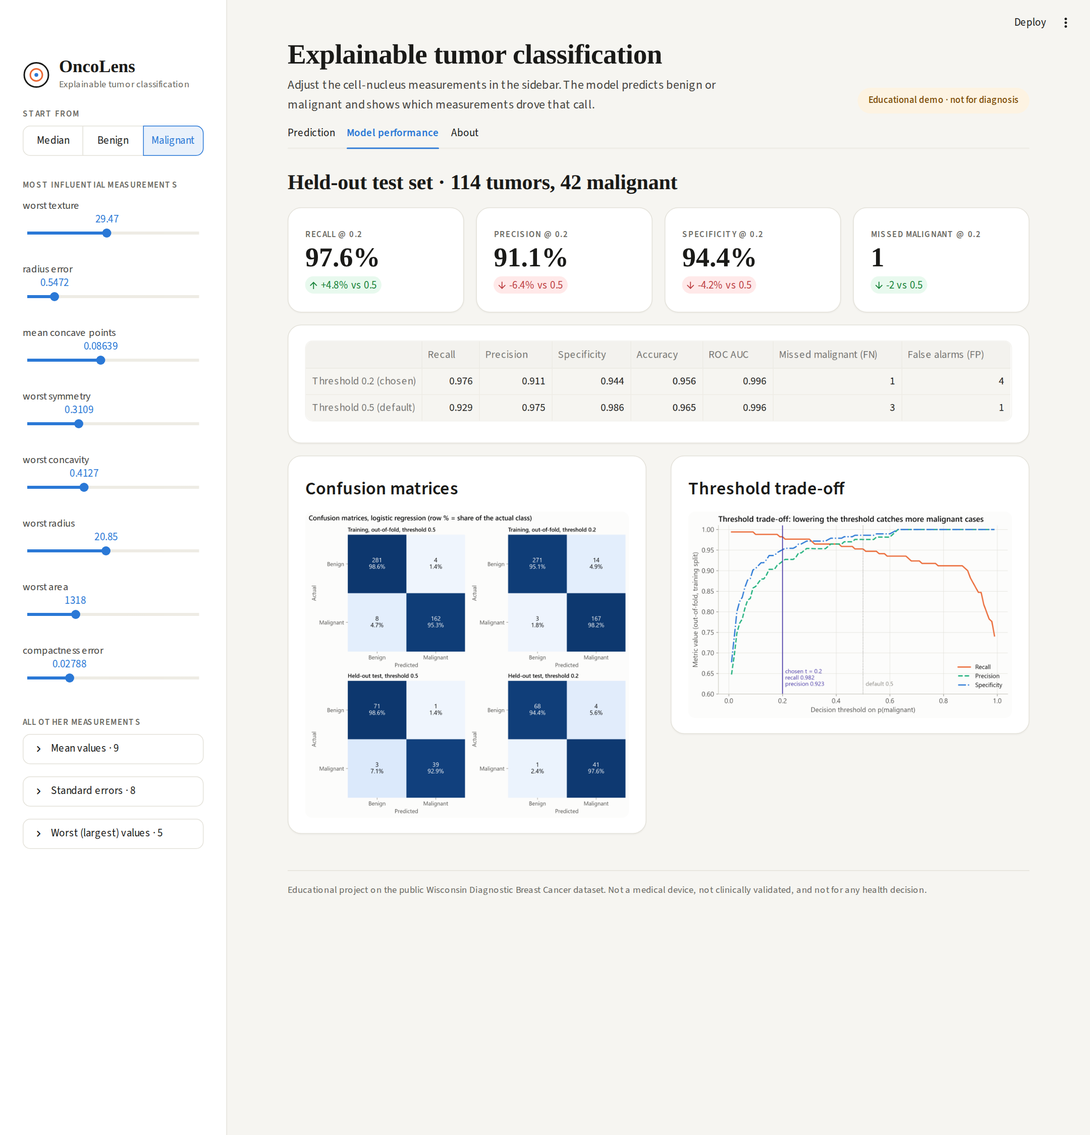
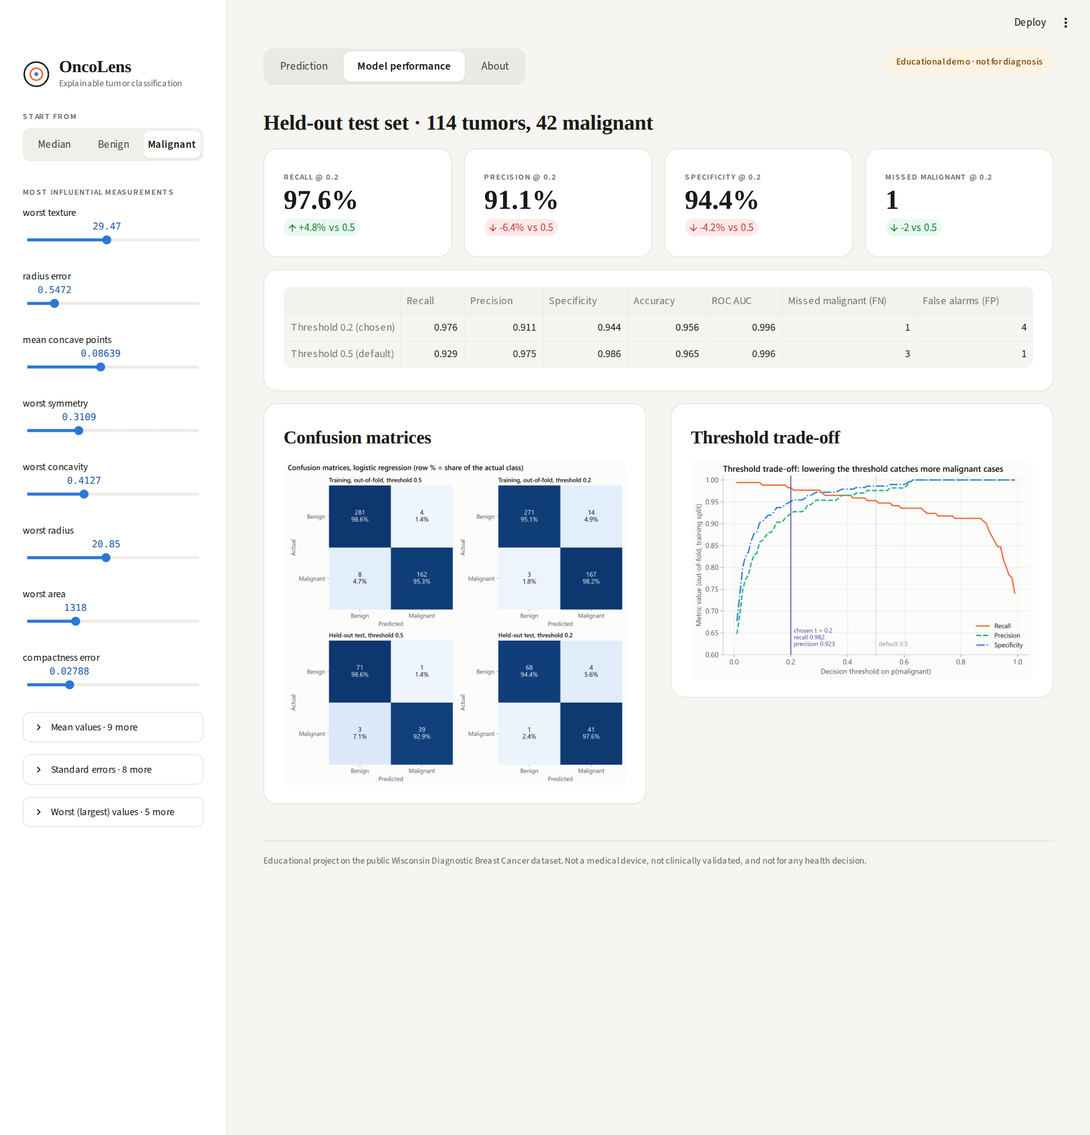
Match the app's Prediction tab to the design mockup
- Pill-style tabs with the educational-demo badge on the right; the page
  title moves to the sidebar brand, as in the mockup
- Verdict card spanning two columns (serif verdict, monospace probability,
  threshold bar) with the two held-out metric cards stacked beside it
- Full-width 'Why this prediction?' card: right-aligned labels, colored
  magnitude bars, monospace values, hover tooltips; replaces the Altair
  waterfall and the separate top-drivers card
- Segmented preset control and slider values styled like the mockup;
  layout collapses to one column on narrow screens

diff --git a/app.py b/app.py
@@ -6,7 +6,6 @@ Educational demo on a public dataset. Not a medical device.
 
 from __future__ import annotations
 
-import altair as alt
 import numpy as np
 import pandas as pd
 import streamlit as st
@@ -30,7 +29,7 @@ from oncolens.data import load_splits, split_features_target
 from oncolens.io_utils import read_json
 
 N_TOP_SLIDERS = 8
-N_SHAP_ROWS = 10
+N_SHAP_ROWS = 7
 GROUP_TITLES = {"mean": "Mean values", "error": "Standard errors", "worst": "Worst (largest) values"}
 PRESET_LABELS = {
     "Median": "Training median (all tumors)",
@@ -48,71 +47,93 @@ st.set_page_config(page_title="OncoLens", page_icon="🔬", layout="wide", initi
 
 CSS = """
 <style>
+@import url('https://fonts.googleapis.com/css2?family=Fraunces:opsz,wght@9..144,500;9..144,600&family=IBM+Plex+Sans:wght@400;500;600&family=IBM+Plex+Mono:wght@400;500&display=swap');
 :root {
   --ol-ink: #1a1a18; --ol-ink-2: #45443f; --ol-muted: #6b6a64;
-  --ol-line: #e4e2da; --ol-ground: #f6f5f1; --ol-card: #ffffff;
-  --ol-benign: #1c5cab; --ol-malignant: #b8481c;
+  --ol-line: #e4e2da; --ol-ground: #f6f5f1; --ol-card: #ffffff; --ol-track: #eceae4;
+  --ol-serif: 'Fraunces', Georgia, serif; --ol-mono: 'IBM Plex Mono', ui-monospace, monospace;
 }
 .stApp { background: var(--ol-ground); }
-.block-container { padding-top: 2.2rem; max-width: 1280px; }
+.block-container { padding-top: 2rem; padding-left: 3rem; padding-right: 3rem; max-width: 1180px; }
 header[data-testid="stHeader"] { background: transparent; }
-h1, h2, h3 { font-family: 'Fraunces', Georgia, serif !important; font-weight: 600 !important; letter-spacing: -0.01em; color: var(--ol-ink); }
+h1, h2, h3, h4 { font-family: var(--ol-serif) !important; font-weight: 600 !important; letter-spacing: -0.01em; color: var(--ol-ink); }
 
 /* Sidebar */
 section[data-testid="stSidebar"] { background: var(--ol-card); border-right: 1px solid var(--ol-line); }
 section[data-testid="stSidebar"] .block-container { padding-top: 1.5rem; }
-section[data-testid="stSidebar"] [data-testid="stSlider"] label p { font-size: 0.85rem; color: var(--ol-ink-2); }
-section[data-testid="stSidebar"] [role="radiogroup"] { flex-wrap: nowrap; width: 100%; }
-section[data-testid="stSidebar"] [role="radiogroup"] button { flex: 1 1 0; min-height: 40px; padding-left: 4px; padding-right: 4px; }
+section[data-testid="stSidebar"] [data-testid="stSlider"] label p { font-size: 0.82rem; color: var(--ol-ink); }
+section[data-testid="stSidebar"] [data-testid="stSliderThumbValue"] p { font-family: var(--ol-mono); font-size: 0.78rem; color: #1c5cab; }
+section[data-testid="stSidebar"] [role="radiogroup"] { flex-wrap: nowrap; width: 100%; gap: 4px; padding: 4px; background: #f0efea; border-radius: 10px; }
+section[data-testid="stSidebar"] [role="radiogroup"] button { flex: 1 1 0; min-height: 36px; padding: 0 4px; border: 0 !important; border-radius: 7px !important; background: transparent; color: var(--ol-ink-2); }
+section[data-testid="stSidebar"] [role="radiogroup"] button[aria-checked="true"] { background: var(--ol-card) !important; box-shadow: 0 1px 2px rgba(0,0,0,0.08); color: var(--ol-ink) !important; }
+section[data-testid="stSidebar"] [role="radiogroup"] button[aria-checked="true"] p { font-weight: 600; color: var(--ol-ink); }
 section[data-testid="stSidebar"] [data-testid="stExpander"] details { border-radius: 10px; border-color: var(--ol-line); }
+section[data-testid="stSidebar"] [data-testid="stExpander"] summary p { font-size: 0.82rem; }
 
-/* Brand + labels */
-.ol-brand { display: flex; align-items: center; gap: 12px; margin-bottom: 0.4rem; }
-.ol-brand-name { font-family: 'Fraunces', Georgia, serif; font-size: 1.45rem; font-weight: 600; line-height: 1.1; color: var(--ol-ink); }
-.ol-brand-sub { font-size: 0.78rem; color: var(--ol-muted); }
-.ol-eyebrow { font-size: 0.7rem; font-weight: 600; letter-spacing: 0.08em; text-transform: uppercase; color: var(--ol-muted); margin: 0.9rem 0 0.35rem; }
+.ol-brand { display: flex; align-items: center; gap: 12px; margin-bottom: 0.6rem; }
+.ol-brand-name { font-family: var(--ol-serif); font-size: 1.4rem; font-weight: 600; line-height: 1.1; color: var(--ol-ink); letter-spacing: -0.01em; }
+.ol-brand-sub { font-size: 0.75rem; color: var(--ol-muted); }
+.ol-eyebrow { font-size: 0.68rem; font-weight: 600; letter-spacing: 0.08em; text-transform: uppercase; color: var(--ol-muted); margin: 1rem 0 0.4rem; }
 
-/* Page header */
-.ol-hero { display: flex; justify-content: space-between; align-items: flex-end; gap: 16px; flex-wrap: wrap; margin-bottom: 0.4rem; }
-.ol-hero h1 { font-size: 2.3rem; margin: 0; padding: 0; line-height: 1.15; }
-.ol-hero p { margin: 0.35rem 0 0; color: var(--ol-ink-2); font-size: 1rem; max-width: 640px; }
-.ol-pill { display: inline-block; padding: 7px 14px; border-radius: 999px; background: #fdf3e2; color: #7a4a00; font-size: 0.78rem; font-weight: 500; white-space: nowrap; }
+/* Top bar: pill tabs on the left, disclaimer on the right */
+.ol-topbar { position: relative; height: 0; z-index: 2; }
+.ol-pill { position: absolute; right: 0; top: 8px; padding: 8px 14px; border-radius: 999px; background: #fdf3e2; color: #7a4a00; font-size: 0.75rem; font-weight: 500; white-space: nowrap; }
+.stTabs [role="tablist"] { gap: 4px; padding: 4px; background: #ebe9e3; border-radius: 12px; width: fit-content; border: 0; }
+.stTabs [data-testid="stTab"] { height: 40px; padding: 0 18px; border-radius: 9px; background: transparent; }
+.stTabs [data-testid="stTab"] p { font-size: 0.9rem; color: var(--ol-ink-2); }
+.stTabs [data-testid="stTab"][aria-selected="true"] { background: var(--ol-card); box-shadow: 0 1px 2px rgba(0,0,0,0.08); }
+.stTabs [data-testid="stTab"][aria-selected="true"] p { font-weight: 600; color: var(--ol-ink); }
+.stTabs .react-aria-SelectionIndicator { display: none; }
+.stTabs [data-testid="stTabPanel"] { padding-top: 1.4rem; }
 
-/* Tabs */
-.stTabs [data-baseweb="tab"] p { font-size: 0.95rem; }
-.stTabs [aria-selected="true"] p { font-weight: 600; }
-.stTabs [data-baseweb="tab-panel"] { padding-top: 1.2rem; }
+/* Cards: keyed containers created with card() */
+[class*="st-key-card-"] { background: var(--ol-card); border-radius: 18px !important; border: 1px solid var(--ol-line) !important; padding: 1.4rem 1.6rem !important; }
+[data-testid="stMetricLabel"] p { font-size: 0.68rem !important; font-weight: 600; letter-spacing: 0.08em; text-transform: uppercase; color: var(--ol-muted); }
+[data-testid="stMetricValue"] { font-family: var(--ol-serif); font-weight: 600; color: var(--ol-ink); }
 
-/* Cards: bordered containers created with card() */
-[class*="st-key-card-"] { background: var(--ol-card); border-radius: 18px !important; border: 1px solid var(--ol-line) !important;
-  padding: 1.25rem 1.4rem !important; box-shadow: 0 1px 2px rgba(26, 26, 24, 0.04); }
-
-/* Metrics */
-[data-testid="stMetricLabel"] p { font-size: 0.7rem !important; font-weight: 600; letter-spacing: 0.08em; text-transform: uppercase; color: var(--ol-muted); }
-[data-testid="stMetricValue"] { font-family: 'Fraunces', Georgia, serif; font-weight: 600; color: var(--ol-ink); }
-.st-key-ol-verdict [data-testid="stMetricValue"] { font-size: 3rem; line-height: 1.1; }
-
-/* Probability bar */
-.ol-bar { position: relative; height: 14px; border-radius: 7px; background: #eceae4; margin: 6px 0 4px; }
+/* Prediction tab (plain HTML, mirrors the design mockup) */
+.ol-grid { display: grid; grid-template-columns: repeat(3, minmax(0, 1fr)); gap: 20px; margin-bottom: 20px; }
+.ol-card { background: var(--ol-card); border: 1px solid var(--ol-line); border-radius: 18px; padding: 28px 32px; box-sizing: border-box; }
+.ol-verdict { grid-column: span 2; display: flex; flex-direction: column; gap: 22px; }
+.ol-stack { display: flex; flex-direction: column; gap: 20px; }
+.ol-stat { flex: 1; display: flex; flex-direction: column; justify-content: center; gap: 6px; padding: 22px 24px; }
+.ol-label { font-size: 0.68rem; font-weight: 600; letter-spacing: 0.08em; text-transform: uppercase; color: var(--ol-muted); }
+.ol-row { display: flex; justify-content: space-between; align-items: flex-start; gap: 16px; }
+.ol-col { display: flex; flex-direction: column; gap: 6px; }
+.ol-big { font-family: var(--ol-serif); font-size: 3.5rem; font-weight: 600; line-height: 1; letter-spacing: -0.01em; }
+.ol-prob { font-family: var(--ol-mono); font-size: 2.5rem; font-weight: 500; line-height: 1; color: var(--ol-ink); text-align: right; }
+.ol-stat-value { font-family: var(--ol-serif); font-size: 2.1rem; font-weight: 600; line-height: 1.1; color: var(--ol-ink); }
+.ol-stat-note { font-size: 0.82rem; color: var(--ol-ink-2); }
+.ol-bar { position: relative; height: 14px; border-radius: 7px; background: var(--ol-track); }
 .ol-bar-fill { position: absolute; left: 0; top: 0; bottom: 0; border-radius: 7px; }
 .ol-bar-cut { position: absolute; top: -6px; bottom: -6px; width: 2px; background: var(--ol-ink); }
-.ol-bar-scale { position: relative; height: 20px; font-size: 0.75rem; color: var(--ol-muted); }
-.ol-bar-scale span { position: absolute; }
-.ol-note { font-size: 0.88rem; line-height: 1.55; color: var(--ol-ink-2); margin: 0.4rem 0 0; }
-
-/* Contribution list */
-.ol-drivers { display: flex; flex-direction: column; gap: 8px; }
-.ol-driver { display: flex; justify-content: space-between; align-items: center; gap: 12px; padding: 10px 12px; border-radius: 10px; background: var(--ol-ground); font-size: 0.88rem; }
-.ol-driver b { font-weight: 600; color: var(--ol-ink); }
-.ol-driver .v { color: var(--ol-muted); font-family: 'IBM Plex Mono', monospace; font-size: 0.8rem; }
-.ol-driver .s { font-family: 'IBM Plex Mono', monospace; font-weight: 500; white-space: nowrap; }
-.ol-legend { display: flex; gap: 16px; font-size: 0.78rem; color: var(--ol-ink-2); }
+.ol-bar-scale { position: relative; height: 18px; margin-top: 8px; font-size: 0.75rem; color: var(--ol-muted); }
+.ol-bar-scale span { position: absolute; white-space: nowrap; }
+.ol-note { margin: 0; font-size: 0.88rem; line-height: 1.55; color: var(--ol-ink-2); }
+.ol-shap { display: flex; flex-direction: column; gap: 20px; }
+.ol-shap-head { display: flex; justify-content: space-between; align-items: baseline; gap: 16px; flex-wrap: wrap; }
+.ol-shap-head h2 { margin: 0; padding: 0; font-size: 1.5rem; }
+.ol-legend { display: flex; gap: 18px; font-size: 0.75rem; color: var(--ol-ink-2); }
 .ol-legend i { display: inline-block; width: 10px; height: 10px; border-radius: 2px; margin-right: 6px; vertical-align: -1px; }
+.ol-bars { display: flex; flex-direction: column; gap: 10px; }
+.ol-bar-row { display: grid; grid-template-columns: 260px minmax(0, 1fr) 64px; gap: 16px; align-items: center; font-size: 0.82rem; }
+.ol-bar-row > span:first-child { text-align: right; color: var(--ol-ink-2); overflow: hidden; text-overflow: ellipsis; white-space: nowrap; }
+.ol-track { position: relative; height: 22px; background: var(--ol-ground); border-radius: 4px; }
+.ol-track > div { position: absolute; left: 0; top: 3px; bottom: 3px; border-radius: 3px; }
+.ol-val { font-family: var(--ol-mono); color: var(--ol-ink); }
+.ol-foot { margin: 0; font-size: 0.82rem; color: var(--ol-muted); }
+@media (max-width: 900px) {
+  .ol-grid { grid-template-columns: minmax(0, 1fr); }
+  .ol-verdict { grid-column: auto; }
+  .ol-bar-row { grid-template-columns: 140px minmax(0, 1fr) 52px; }
+  .ol-big { font-size: 2.6rem; } .ol-prob { font-size: 1.8rem; }
+  .ol-pill { position: static; display: inline-block; margin-bottom: 12px; }
+  .ol-topbar { height: auto; }
+}
 
-/* About cards */
-.ol-about h4 { font-family: 'Fraunces', Georgia, serif; font-size: 1.1rem; margin: 0 0 0.3rem; }
+.ol-about h4 { font-size: 1.1rem; margin: 0 0 0.3rem; }
 .ol-about p { margin: 0; font-size: 0.92rem; line-height: 1.55; color: var(--ol-ink-2); }
-.ol-footer { margin-top: 2rem; padding-top: 1rem; border-top: 1px solid var(--ol-line); font-size: 0.78rem; color: var(--ol-muted); }
+.ol-footer { margin-top: 2rem; padding-top: 1rem; border-top: 1px solid var(--ol-line); font-size: 0.75rem; color: var(--ol-muted); }
 </style>
 """
 
@@ -186,10 +207,9 @@ def render_sidebar(ranges: pd.DataFrame, ordered: list[str], preset_values: dict
         st.markdown('<div class="ol-eyebrow">Most influential measurements</div>', unsafe_allow_html=True)
         for name in ordered[:N_TOP_SLIDERS]:
             slider(name)
-        st.markdown('<div class="ol-eyebrow">All other measurements</div>', unsafe_allow_html=True)
         for group in FEATURE_GROUPS:
             rest = [f for f in ordered[N_TOP_SLIDERS:] if feature_group(f) == group]
-            with st.expander(f"{GROUP_TITLES[group]} · {len(rest)}"):
+            with st.expander(f"{GROUP_TITLES[group]} · {len(rest)} more"):
                 for name in rest:
                     slider(name)
     return pd.DataFrame([{name: st.session_state[name] for name in ranges.index}])
@@ -199,64 +219,25 @@ def probability_bar(p: float, threshold: float, color: str) -> str:
     """HTML bar for P(malignant) with a marker at the decision threshold."""
     fill = min(max(p, 0.0), 1.0) * 100
     cut = threshold * 100
-    return (f'<div class="ol-bar"><div class="ol-bar-fill" style="width:{fill:.1f}%;background:{color}"></div>'
+    return (f'<div><div class="ol-bar"><div class="ol-bar-fill" style="width:{fill:.1f}%;background:{color}"></div>'
             f'<div class="ol-bar-cut" style="left:{cut:.1f}%"></div></div>'
             f'<div class="ol-bar-scale"><span style="left:0">0%</span>'
             f'<span style="left:{cut:.1f}%;transform:translateX(-50%);color:var(--ol-ink);font-weight:500">'
-            f'threshold {threshold:.0%}</span><span style="right:0">100%</span></div>')
+            f'threshold {threshold:.0%}</span><span style="right:0">100%</span></div></div>')
 
 
-def shap_chart(values: np.ndarray, data: np.ndarray, names: list[str], base: float, threshold: float) -> alt.Chart:
-    """Interactive SHAP waterfall in log-odds: top contributions plus one row for the rest."""
+def shap_bars(values: np.ndarray, data: np.ndarray, names: list[str]) -> str:
+    """HTML rows: one bar per top contribution, length = |SHAP|, color = direction."""
     rows = waterfall_rows(values, data, names, N_SHAP_ROWS)
-    ends = base + np.cumsum([v for _, v in rows[::-1]])[::-1]  # accumulate bottom-up
-    df = pd.DataFrame({
-        "feature": [label for label, _ in rows],
-        "shap": [v for _, v in rows],
-        "end": ends,
-    })
-    df["start"] = df["end"] - df["shap"]
-    df["direction"] = np.where(df["shap"] > 0, "toward malignant", "toward benign")
-    df["label"] = df["shap"].map(lambda v: f"{v:+.2f}")
-    df["label_x"] = np.where(df["shap"] > 0, df[["start", "end"]].max(axis=1), df[["start", "end"]].min(axis=1))
-    df["align"] = np.where(df["shap"] > 0, "left", "right")
-    order = df["feature"].tolist()
-    final = float(ends[0])
-    cut = float(np.log(threshold / (1 - threshold)))
-
-    y = alt.Y("feature:N", sort=order, title=None, axis=alt.Axis(labelLimit=260, labelFontSize=12,
-                                                                 labelColor="#45443f", ticks=False, domain=False))
-    color = alt.Color("direction:N", legend=None, scale=alt.Scale(
-        domain=["toward malignant", "toward benign"], range=[MALIGNANT_COLOR, BENIGN_COLOR]))
-    bars = alt.Chart(df).mark_bar(cornerRadius=3, height=18).encode(
-        x=alt.X("start:Q", title="Log-odds of malignancy",
-                axis=alt.Axis(grid=True, gridColor="#eceae4", domain=False, labelColor="#6b6a64",
-                              titleColor="#6b6a64", titleFontWeight="normal")),
-        x2="end:Q", y=y, color=color,
-        tooltip=[alt.Tooltip("feature:N", title="Feature"), alt.Tooltip("shap:Q", title="SHAP (log-odds)", format="+.3f"),
-                 alt.Tooltip("direction:N", title="Pushes")],
-    )
-    text_pos = alt.Chart(df[df["shap"] > 0]).mark_text(align="left", dx=5, fontSize=11, color="#45443f").encode(
-        x="label_x:Q", y=y, text="label:N")
-    text_neg = alt.Chart(df[df["shap"] <= 0]).mark_text(align="right", dx=-5, fontSize=11, color="#45443f").encode(
-        x="label_x:Q", y=y, text="label:N")
-    refs = pd.DataFrame({
-        "x": [base, final, cut],
-        "what": [f"base value {base:.2f}", f"this input {final:.2f} (p = {1 / (1 + np.exp(-final)):.3f})",
-                 f"decision threshold (p = {threshold:g})"],
-        "dash": ["dot", "dash", "solid"],
-    })
-    rules = alt.Chart(refs).mark_rule(strokeWidth=1.4).encode(
-        x="x:Q",
-        strokeDash=alt.StrokeDash("dash:N", legend=None, scale=alt.Scale(
-            domain=["dot", "dash", "solid"], range=[[2, 3], [6, 4], [1, 0]])),
-        color=alt.Color("dash:N", legend=None, scale=alt.Scale(
-            domain=["dot", "dash", "solid"], range=["#898781", "#45443f", "#4a3aa7"])),
-        tooltip=[alt.Tooltip("what:N", title="Reference")],
-    )
-    return (rules + bars + text_pos + text_neg).resolve_scale(color="independent").properties(
-        height=34 * len(df) + 30).configure_view(strokeWidth=0).configure(
-        background="transparent", font="'IBM Plex Sans', system-ui, sans-serif")
+    scale = max(abs(v) for _, v in rows) or 1.0
+    html = []
+    for label, v in rows:
+        color = MALIGNANT_COLOR if v > 0 else BENIGN_COLOR
+        direction = "toward malignant" if v > 0 else "toward benign"
+        html.append(f'<div class="ol-bar-row" title="{label}: {v:+.3f} log-odds, {direction}"><span>{label}</span>'
+                    f'<div class="ol-track"><div style="width:{abs(v) / scale * 100:.1f}%;background:{color}"></div></div>'
+                    f'<span class="ol-val">{v:+.2f}</span></div>')
+    return "".join(html)
 
 
 def render_prediction(model, explainer, row: pd.DataFrame, threshold: float) -> None:
@@ -266,50 +247,44 @@ def render_prediction(model, explainer, row: pd.DataFrame, threshold: float) -> 
     ink = MALIGNANT_INK if pred.is_malignant else BENIGN_INK
     final = get_final_metrics()
 
-    left, right = st.columns([2, 1], gap="medium")
-    with card(left, "verdict"):
-        st.markdown(f"<style>.st-key-ol-verdict [data-testid='stMetricValue'] {{ color: {ink}; }}</style>",
-                    unsafe_allow_html=True)
-        c1, c2 = st.columns([3, 2])
-        with c1.container(key="ol-verdict"):
-            st.metric("Model output", pred.label)
-        c2.metric("P(malignant)", format_probability(pred.p_malignant))
-        st.markdown(probability_bar(pred.p_malignant, threshold, accent), unsafe_allow_html=True)
-        st.markdown(f'<p class="ol-note">Flagged as malignant when P(malignant) ≥ {threshold:g}. The threshold was '
-                    "lowered from 0.5 to catch more malignant cases, at the cost of more false alarms. "
-                    f"Probability of the predicted class: <b>{format_probability(pred.confidence)}</b>.</p>",
-                    unsafe_allow_html=True)
-    with right:
-        if final:
-            m = final["metrics_at_chosen_threshold"]
-            with card(st, "recall"):
-                st.metric("Test recall (malignant)", f"{m['recall']:.1%}")
-                st.caption(f"{m['tp']} of {m['tp'] + m['fn']} caught on held-out data")
-            with card(st, "auc"):
-                st.metric("Test ROC AUC", f"{m['roc_auc']:.3f}")
-                st.caption(f"{final['model'].replace('_', ' ').capitalize()}, {final['n_test']} tumors")
+    stats = ""
+    if final:
+        m = final["metrics_at_chosen_threshold"]
+        stats = (
+            '<div class="ol-stack">'
+            '<div class="ol-card ol-stat"><span class="ol-label">Test recall (malignant)</span>'
+            f'<span class="ol-stat-value">{m["recall"]:.1%}</span>'
+            f'<span class="ol-stat-note">{m["tp"]} of {m["tp"] + m["fn"]} caught on held-out data</span></div>'
+            '<div class="ol-card ol-stat"><span class="ol-label">Test ROC AUC</span>'
+            f'<span class="ol-stat-value">{m["roc_auc"]:.3f}</span>'
+            f'<span class="ol-stat-note">{final["model"].replace("_", " ").capitalize()}, '
+            f'{final["n_test"]} tumors</span></div></div>'
+        )
+    st.markdown(
+        '<div class="ol-grid"><div class="ol-card ol-verdict"><div class="ol-row">'
+        f'<div class="ol-col"><span class="ol-label">Model output</span>'
+        f'<span class="ol-big" data-verdict="{pred.label}" style="color:{ink}">{pred.label}</span></div>'
+        f'<div class="ol-col" style="align-items:flex-end"><span class="ol-label">P(malignant)</span>'
+        f'<span class="ol-prob">{format_probability(pred.p_malignant)}</span></div></div>'
+        f'{probability_bar(pred.p_malignant, threshold, accent)}'
+        f'<p class="ol-note">Flagged as malignant when P(malignant) ≥ {threshold:g}. The threshold was lowered from '
+        "0.5 to catch more malignant cases, at the cost of more false alarms. Probability of the predicted class: "
+        f"<b>{format_probability(pred.confidence)}</b>.</p></div>{stats}</div>",
+        unsafe_allow_html=True,
+    )
 
     values, data, base = explain_one(explainer, row)
-    chart_col, list_col = st.columns([2, 1], gap="medium")
-    with card(chart_col, "shap"):
-        st.markdown("### Why this prediction?")
-        st.markdown(f'<div class="ol-legend"><span><i style="background:{MALIGNANT_COLOR}"></i>toward malignant</span>'
-                    f'<span><i style="background:{BENIGN_COLOR}"></i>toward benign</span></div>',
-                    unsafe_allow_html=True)
-        st.altair_chart(shap_chart(values, data, list(row.columns), base, threshold), width="stretch")
-        st.caption("SHAP contributions in log-odds, accumulating from the base value (average over the training "
-                   "data) to this input. Hover a bar for details. Correlated inputs share credit, so one bar is "
-                   "not a causal effect.")
-    with card(list_col, "drivers"):
-        st.markdown("### Top drivers")
-        top = pd.DataFrame({"feature": row.columns, "value": data, "shap": values})
-        top = top.reindex(top["shap"].abs().sort_values(ascending=False).index).head(5)
-        items = "".join(
-            f'<div class="ol-driver"><div><b>{r.feature}</b><br><span class="v">= {r.value:.4g}</span></div>'
-            f'<span class="s" style="color:{MALIGNANT_INK if r.shap > 0 else BENIGN_INK}">{r.shap:+.2f}</span></div>'
-            for r in top.itertuples())
-        st.markdown(f'<div class="ol-drivers">{items}</div>', unsafe_allow_html=True)
-        st.caption("Positive values push toward malignant, negative toward benign (log-odds).")
+    final_logit = base + float(values.sum())
+    st.markdown(
+        '<div class="ol-card ol-shap"><div class="ol-shap-head"><h2>Why this prediction?</h2>'
+        f'<div class="ol-legend"><span><i style="background:{MALIGNANT_COLOR}"></i>toward malignant</span>'
+        f'<span><i style="background:{BENIGN_COLOR}"></i>toward benign</span></div></div>'
+        f'<div class="ol-bars">{shap_bars(values, data, list(row.columns))}</div>'
+        f'<p class="ol-foot">SHAP contributions in log-odds, from the base value {base:.2f} (average over the '
+        f"training data) to this input's {final_logit:.2f}. Hover a row for details. Correlated inputs share "
+        "credit, so one bar is not a causal effect.</p></div>",
+        unsafe_allow_html=True,
+    )
 
 
 def render_performance() -> None:
@@ -380,11 +355,8 @@ def main() -> None:
         st.session_state["preset"] = "Median"
     row = render_sidebar(ranges, ordered, preset_values)
 
-    st.markdown('<div class="ol-hero"><div><h1>Explainable tumor classification</h1>'
-                "<p>Adjust the cell-nucleus measurements in the sidebar. The model predicts benign or malignant "
-                "and shows which measurements drove that call.</p></div>"
-                '<span class="ol-pill">Educational demo · not for diagnosis</span></div>',
-                unsafe_allow_html=True)
+    st.markdown('<div class="ol-topbar"><span class="ol-pill">Educational demo · not for diagnosis</span>'
+                '</div>', unsafe_allow_html=True)
 
     model, explainer = get_model_and_explainer()
     threshold = load_threshold()

diff --git a/tests/test_app.py b/tests/test_app.py
@@ -58,7 +58,9 @@ def test_app_runs_without_exceptions() -> None:
     at = AppTest.from_file(str(APP), default_timeout=180).run()
     assert not at.exception
     assert len(at.slider) == 30
-    assert at.metric[0].value in ("Benign", "Malignant")
+    verdicts = [m.value for m in at.markdown if "data-verdict=" in m.value]
+    assert len(verdicts) == 1
+    assert 'data-verdict="Benign"' in verdicts[0] or 'data-verdict="Malignant"' in verdicts[0]
     texture = at.slider(key="worst texture")
     texture.set_value(float(texture.max)).run()
     assert not at.exception

diff --git a/scripts/capture_screenshots.py b/scripts/capture_screenshots.py
@@ -54,7 +54,7 @@ def streamlit_server(port: int = PORT) -> Iterator[str]:
 def wait_for_app(page: Page) -> None:
     """Wait until the prediction metrics and the SHAP chart have rendered."""
     page.get_by_text("Model output").first.wait_for(timeout=120_000)
-    page.locator("[data-testid='stVegaLiteChart'] canvas, [data-testid='stVegaLiteChart'] svg").first.wait_for(
+    page.locator(".ol-bars").first.wait_for(
         timeout=120_000)
     page.wait_for_timeout(1500)
 

diff --git a/README.md b/README.md
@@ -129,7 +129,7 @@ streamlit run app.py
   with ranges taken from the training data, plus one-click presets (median, typical benign, typical malignant).
 - Output: the predicted class at threshold 0.2, P(malignant) on a bar marked with the decision threshold, and the
   probability of the predicted class.
-- An interactive SHAP waterfall (hover a bar for details) and the top drivers for **the current input**.
+- A SHAP bar chart of the biggest contributions for **the current input** (hover a row for details).
 - A "Model performance" tab with the held-out test metrics and figures.
 
 | Performance tab | Benign example |
